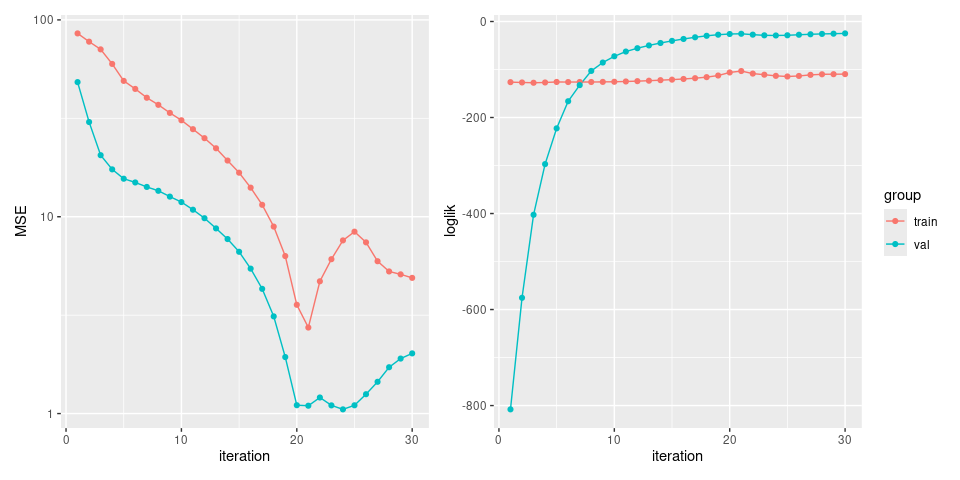
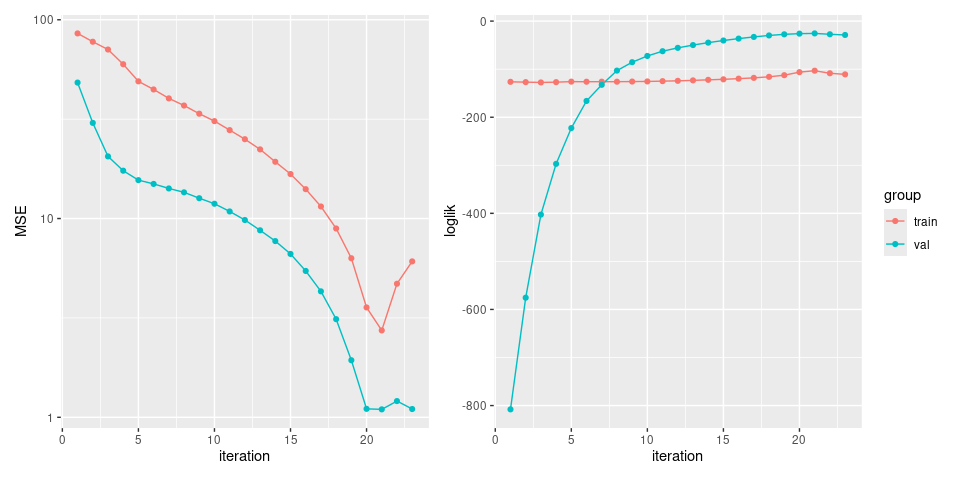
Update of readme.md

diff --git a/README.md b/README.md
@@ -232,7 +232,7 @@ model_reservoir <- reservoir_mixedml(
   time = "time",
   # parameters for MixedML method
   mixedml_controls = mixedml_ctrls(
-    earlystopping_controls = earlystopping_ctrls(min_mse_gain = 0.1, patience = 10),
+    earlystopping_controls = earlystopping_ctrls(min_mse_gain = 0.1, patience = 3),
     all_info_hlme_prediction = TRUE
   ),
   # controls (extra-parameters) for the hlme model
@@ -406,49 +406,6 @@ model_reservoir <- reservoir_mixedml(
 #>  MSE-train = 6.087
 #>  MSE-val = 1.101
 #>  (no improvement #3)
-#> step#24
-#>  fitting fixed effects...
-#>  fitting random effects...
-#>  MSE-train = 7.583
-#>  MSE-val = 1.051
-#>  (saving best model)
-#>  (no improvement #4)
-#> step#25
-#>  fitting fixed effects...
-#>  fitting random effects...
-#>  MSE-train = 8.396
-#>  MSE-val = 1.102
-#>  (no improvement #5)
-#> step#26
-#>  fitting fixed effects...
-#>  fitting random effects...
-#>  MSE-train = 7.41
-#>  MSE-val = 1.254
-#>  (no improvement #6)
-#> step#27
-#>  fitting fixed effects...
-#>  fitting random effects...
-#>  MSE-train = 5.943
-#>  MSE-val = 1.45
-#>  (no improvement #7)
-#> step#28
-#>  fitting fixed effects...
-#>  fitting random effects...
-#>  MSE-train = 5.273
-#>  MSE-val = 1.72
-#>  (no improvement #8)
-#> step#29
-#>  fitting fixed effects...
-#>  fitting random effects...
-#>  MSE-train = 5.097
-#>  MSE-val = 1.903
-#>  (no improvement #9)
-#> step#30
-#>  fitting fixed effects...
-#>  fitting random effects...
-#>  MSE-train = 4.891
-#>  MSE-val = 2.022
-#>  (no improvement #10)
 #> Warning in mixedml_training_loop(fixed_model, fixed_spec, random_spec, data, :
 #> Conditions defined in early_stopping: aborting training loop!
 #> Final convergence of HLME with strict convergence criterions.
@@ -481,15 +438,15 @@ model_reservoir$random_model
 #>  
 #> Iteration process: 
 #>      Convergence criteria satisfied 
-#>      Number of iterations:  1 
-#>      Convergence criteria: parameters= 1.3e-09 
-#>                          : likelihood= 7.4e-09 
-#>                          : second derivatives= 1.7e-10 
+#>      Number of iterations:  2 
+#>      Convergence criteria: parameters= 8.6e-05 
+#>                          : likelihood= 7.9e-07 
+#>                          : second derivatives= 3.9e-10 
 #>  
 #> Goodness-of-fit statistics: 
-#>      maximum log-likelihood: -113.25  
-#>      AIC: 234.5  
-#>      BIC: 234.81  
+#>      maximum log-likelihood: -103.19  
+#>      AIC: 214.37  
+#>      BIC: 214.69  
 #>  
 #> 
 ```
@@ -534,12 +491,12 @@ summary(model_reservoir)
 #> 
 #>  == MixedML model ==
 #>   Type of the fixed effect model: reservoir 
-#>   Number of iterations: 30 
-#>   Best iteration: 24 
-#>     MSE-train: 7.58 
-#>     MSE-val: 1.05 
-#>     loglik-train: -113 
-#>     loglik-val: -29.1 
+#>   Number of iterations: 23 
+#>   Best iteration: 21 
+#>     MSE-train: 2.74 
+#>     MSE-val: 1.1 
+#>     loglik-train: -103 
+#>     loglik-val: -25.6 
 #> 
 #> 
 #>  === Reservoir Computing model (ReservoirPy) ===
@@ -579,36 +536,37 @@ summary(model_reservoir)
 #>  
 #> Iteration process: 
 #>      Convergence criteria satisfied 
-#>      Number of iterations:  1 
-#>      Convergence criteria: parameters= 1.3e-09 
-#>                          : likelihood= 7.4e-09 
-#>                          : second derivatives= 1.7e-10 
+#>      Number of iterations:  2 
+#>      Convergence criteria: parameters= 8.6e-05 
+#>                          : likelihood= 7.9e-07 
+#>                          : second derivatives= 3.9e-10 
 #>  
 #> Goodness-of-fit statistics: 
-#>      maximum log-likelihood: -113.25  
-#>      AIC: 234.5  
-#>      BIC: 234.81  
+#>      maximum log-likelihood: -103.19  
+#>      AIC: 214.37  
+#>      BIC: 214.69  
 #>  
 #>  
 #> Maximum Likelihood Estimates: 
 #>  
 #> Fixed effects in the longitudinal model:
 #> 
-#>               coef  Se Wald p-value
-#> intercept  0.00000*                
+#>                coef  Se Wald p-value
+#> intercept   0.00000*                
 #> 
 #> 
 #> Variance-covariance matrix of the random-effects:
 #>           intercept   x1 x2
-#> intercept      52.2        
-#> x1              0.0 13.8   
-#> x2              0.0  0.0  0
+#> intercept       235        
+#> x1                0 14.4   
+#> x2                0  0.0  0
 #> 
-#>                              coef      Se
-#> Residual standard error:  3.17282 0.48942
+#>                               coef      Se
+#> Residual standard error:   1.99135 0.32776
 #> 
 #>  * coefficient fixed by the user 
 #> 
+#> NULL
 ```
 
 ## 6.2 `plot_convergence`
@@ -638,7 +596,7 @@ pred_test_past <- predict(
 )
 pred_test_past
 #>   47    8   20    3   41 
-#>   NA 72.2 75.8 79.5 78.3
+#>   NA 75.7 77.6 80.6 79.2
 ```
 
 ``` r
@@ -650,7 +608,7 @@ pred_test_all <- predict(
 )
 pred_test_all
 #>   47    8   20    3   41 
-#> 82.6 77.4 77.3 80.4 78.7
+#> 79.3 78.0 78.0 81.2 79.4
 ```
 
 ## 6.5 `plot_predictions`
@@ -743,15 +701,15 @@ mixedml_model$random_model
 #>  
 #> Iteration process: 
 #>      Convergence criteria satisfied 
-#>      Number of iterations:  1 
-#>      Convergence criteria: parameters= 1.3e-09 
-#>                          : likelihood= 7.4e-09 
-#>                          : second derivatives= 1.7e-10 
+#>      Number of iterations:  2 
+#>      Convergence criteria: parameters= 8.6e-05 
+#>                          : likelihood= 7.9e-07 
+#>                          : second derivatives= 3.9e-10 
 #>  
 #> Goodness-of-fit statistics: 
-#>      maximum log-likelihood: -113.25  
-#>      AIC: 234.5  
-#>      BIC: 234.81  
+#>      maximum log-likelihood: -103.19  
+#>      AIC: 214.37  
+#>      BIC: 214.69  
 #>  
 #> 
 ```
